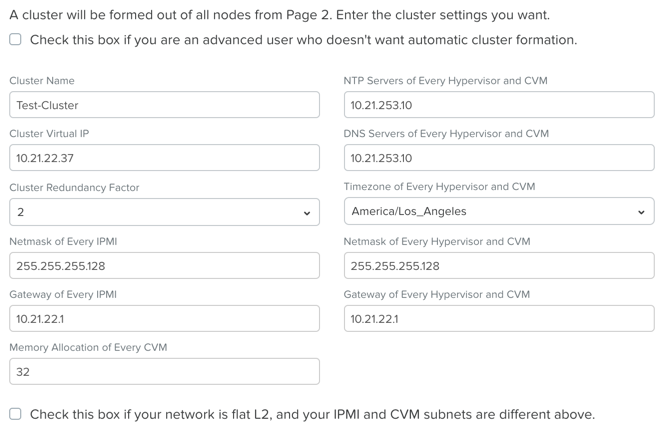
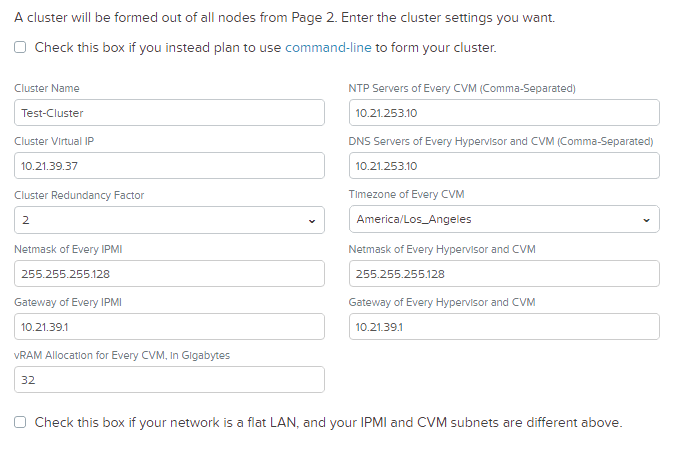
Updated to Foundation 4.2.1, removed XD access requirement

diff --git a/groupfoundation/foundation.rst b/groupfoundation/foundation.rst
@@ -169,28 +169,38 @@ Select **Save & Quit** and press **Return**.
 
 .. figure:: images/6.png
 
-.. raw:: html
-
-  <br><strong><font color="red">Close the Foundation VM console. You will use the browser in your Citrix XenDesktop session for the remainder of the lab.</font></strong>
-
 Running Foundation
 ++++++++++++++++++
 
-Open \http://*<Foundation VM IP>*:8000/gui/index.html in your browser to access Foundation.
+From within the Foundation VM console, launch **Nutanix Foundation** from the desktop.
 
 .. note::
 
-  **DO NOT** access the Foundation UI from the Foundation VM console. Close your Foundation VM console and access the Foundation UI via a browser in your Citrix desktop.
+  Foundation can be accessed via any browser at \http://*<Foundation VM IP>*:8000/gui/index.html
 
-On the **Start** page, click **Next**.
+On the **Start** page, make the following selections:
 
-.. note:: Foundation node/cluster settings can be pre-configured using https://install.nutanix.com and imported from the **Start** page.
+- **Select which network to use on this computer** - eth0
+- **Select your hardware platform** - Autodetect
+- **Is your switch doing link aggregation?** - No
+
+.. note::
+
+  Foundation node/cluster settings can optionally be pre-configured using https://install.nutanix.com and imported from the **Start** page. This will not be done as part of the lab.
+
+.. figure:: images/7.png
+
+Click **Next**.
 
 Click **Click here** to manually specify the MAC address of your assigned node.
 
 .. note::
 
-  Foundation will automatically discover any hosts in the same IPv6 Link Local broadcast domain that is not already part of a cluster. When transferring POC assets in the field, it's not uncommon to receive a cluster that wasn't properly destroyed at the conclusion of the previous POC. In this lab, the nodes are already part of existing clusters and will not be discovered.
+  Foundation will automatically discover any hosts in the same IPv6 Link Local broadcast domain that is not already part of a cluster.
+
+  .. figure:: images/7b.png
+
+  When transferring POC assets in the field, it's not uncommon to receive a cluster that wasn't properly destroyed at the conclusion of the previous POC. In this lab, the nodes are already part of existing clusters and will not be discovered.
 
 Fill out the following fields and click **Add Nodes**:
 
@@ -198,7 +208,7 @@ Fill out the following fields and click **Add Nodes**:
 - **Nodes per Block** - 3
 - Select **I will provide the IPMI MACs**
 
-.. figure:: images/7.png
+.. figure:: images/8.png
 
 Using the `Cluster Details`_ spreadsheet, fill out the following fields for **Nodes A, B, and C ONLY** and click **Next**:
 
@@ -213,11 +223,13 @@ Using the `Cluster Details`_ spreadsheet, fill out the following fields for **No
 
 .. note::
 
-  Use **Tools > Range Autofill** to quickly specify Node IPs.
+  Use **Tools > Range Autofill** to quickly specify Node IPs. Specify the first IP in the field at the top of the table to provide enumerated values for the entire column.
 
 .. note::
 
   In addition to the IPMI MAC address labels on the back of each node. Watchtower can be used to collect the IPMI MAC addresses of any NX appliance: *\http://watchtower.corp.nutanix.com/factoryData/<Block Serial>/*
+
+  Watchtower requires VPN connection.
 
 Using the `Cluster Details`_ spreadsheet, replace the octet(s) that correspond to your HPOC network, fill out the following fields and click **Next**:
 
@@ -231,7 +243,7 @@ Using the `Cluster Details`_ spreadsheet, replace the octet(s) that correspond t
 - **Cluster Virtual IP** - 10.21.\ *XYZ*\ .37
 
   *Cluster Virtual IP needs to be within the same subnet as the CVM/hypervisor.*
-- **Cluster Redundancy Factor** - 2
+- **Cluster Redundancy Factor** - RF2
 
   *Redundancy Factor 2 requires a minimum of 3 nodes, Redundancy Factor 3 requires a minimum of 5 nodes. Cluster creation during Foundation will fail if the appropriate minimum is not met.*
 - **Timezone of Every Hypervisor and CVM** - America/Los_Angeles
@@ -239,7 +251,7 @@ Using the `Cluster Details`_ spreadsheet, replace the octet(s) that correspond t
 - **Netmask of Every Hypervisor and CVM** - 255.255.255.128
 - **Gateway of Every IPMI** - 10.21.\ *XYZ*\ .1
 - **Gateway of Every Hypervisor and CVM** - 10.21.\ *XYZ*\ .1
-- **Memory Allocation of Every CVM** - 32
+- **vRAM Allocation for Every CVM, in Gigabytes** - 32
 
   *Refer to AOS Release Notes > Controller VM Memory Configurations for guidance on CVM Memory Allocation.*
 
@@ -260,6 +272,10 @@ By default, Foundation does not have any AOS or hypervisor images. To upload AOS
 Click **+ Add > Choose File**. Select your downloaded *nutanix_installer_package-release-\*.tar.gz* file and click **Upload**.
 
 .. figure:: images/15.png
+
+.. note::
+
+  If downloading the AOS package within the Foundation VM, the .tar.gz package can also be moved to ~/foundation/nos rather than uploaded to Foundation through the web UI. After moving the package into the proper directory, click **Manage AOS Files > Refresh**.
 
 After the upload completes, click **Close**. Click **Next**.
 
@@ -301,7 +317,9 @@ When all CVMs are ready, Foundation initiates the cluster creation process.
 
 .. figure:: images/20.png
 
-Open \https://*<Cluster Virtual IP>*:9440 in your browser and log in with the following credentials:
+**Close the Foundation VM Console.**
+
+Open \https://*<Cluster Virtual IP>*:9440 in your local browser and log in with the following credentials:
 
 - **Username** - admin
 - **Password** - Nutanix/4u

diff --git a/diyfoundation/diyfoundation.rst b/diyfoundation/diyfoundation.rst
@@ -116,11 +116,11 @@ Fill out the following fields and click **Save**:
 - **Image Type** - Disk
 - **Storage Container** - default-container
 - Select **From URL**
-- **Image Source** - http://download.nutanix.com/foundation/foundation-4.0.3/Foundation_VM-4.0.3-disk-0.qcow2
+- **Image Source** - http://download.nutanix.com/foundation/foundation-4.2.1/Foundation_VM-4.2.1-disk-0.qcow2
 
 .. note::
 
-  At the time of writing, Foundation 4.1.1 is the latest available version. The URL for the latest Foundation VM QCOW2 image can be downloaded from the `Nutanix Portal <https://portal.nutanix.com/#/page/foundation>`_.
+  At the time of writing, Foundation 4.2.1 is the latest available version. The URL for the latest Foundation VM QCOW2 image can be downloaded from the `Nutanix Portal <https://portal.nutanix.com/#/page/foundation>`_.
 
   **Unless otherwise directed by support, always use the latest version of Foundation.**
 
@@ -194,28 +194,38 @@ Select **Save & Quit** and press **Return**.
 
 .. figure:: images/6.png
 
-Close the Foundation VM console.
-
 Running Foundation
 ++++++++++++++++++
 
-Open \https://*<Foundation VM IP>*:8000/gui/index.html in your browser to access Foundation.
+From within the Foundation VM console, launch **Nutanix Foundation** from the desktop.
 
 .. note::
 
-  **DO NOT** access the Foundation UI from the Foundation VM console. Close your Foundation VM console and access the Foundation UI via a browser in your Citrix desktop.
+  Foundation can be accessed via any browser at \http://*<Foundation VM IP>*:8000/gui/index.html
 
-On the **Start** page, click **Next**.
+On the **Start** page, make the following selections:
 
-  .. note:: Foundation node/cluster settings can be pre-configured using https://install.nutanix.com and imported from the **Start** page.
-
-Foundation will automatically discover any hosts in the same IPv6 Link Local broadcast domain that is not already part of a cluster.
-
-.. figure:: images/8.png
+- **Select which network to use on this computer** - eth0
+- **Select your hardware platform** - Autodetect
+- **Is your switch doing link aggregation?** - No
 
 .. note::
 
-  When transferring POC assets in the field, it's not uncommon to receive a cluster that wasn't properly destroyed at the conclusion of the previous POC. In this lab, the nodes should be automatically discovered. See :ref:`foundation_lab` for steps on manually adding nodes based on IPMI MAC addresses.
+  Foundation node/cluster settings can optionally be pre-configured using https://install.nutanix.com and imported from the **Start** page. This will not be done as part of the lab.
+
+.. figure:: images/7.png
+
+Click **Next**.
+
+Click **Click here** to manually specify the MAC address of your assigned node.
+
+.. note::
+
+  Foundation will automatically discover any hosts in the same IPv6 Link Local broadcast domain that is not already part of a cluster.
+
+  .. figure:: images/8.png
+
+  When transferring POC assets in the field, it's not uncommon to receive a cluster that wasn't properly destroyed at the conclusion of the previous POC. In this lab, the nodes are already part of existing clusters and will not be discovered.
 
 Replacing the octet(s) that correspond to your HPOC network, fill out the following fields and select **Next**:
 
@@ -248,7 +258,7 @@ Fill out the following fields and click **Next**:
 - **Netmask of Every Hypervisor and CVM** - 255.255.255.128
 - **Gateway of Every IPMI** - 10.21.\ *XYZ*\ .1
 - **Gateway of Every Hypervisor and CVM** - 10.21.\ *XYZ*\ .1
-- **Memory Allocation of Every CVM** - 32
+- **vRAM Allocation for Every CVM, in Gigabytes** - 32
 
   *Refer to AOS Release Notes > Controller VM Memory Configurations for guidance on CVM Memory Allocation.*
 
@@ -265,6 +275,10 @@ Download your desired AOS package from the `Nutanix Portal <https://portal.nutan
 By default, Foundation does not have any AOS or hypervisor images. To upload AOS or hypervisor files, click **Manage AOS Files**.
 
 .. figure:: images/14.png
+
+.. note::
+
+  If downloading the AOS package within the Foundation VM, the .tar.gz package can also be moved to ~/foundation/nos rather than uploaded to Foundation through the web UI. After moving the package into the proper directory, click **Manage AOS Files > Refresh**.
 
 Click **+ Add > Choose File**. Select your downloaded *nutanix_installer_package-release-\*.tar.gz* file and click **Upload**.
 

diff --git a/index.rst b/index.rst
@@ -30,8 +30,28 @@ Getting Started
 
 Welcome to Nutanix New Hire Training! Carefully review the **Overview** section of each lab before proceeding with the exercise.
 
-HPOC XenDesktop Access
-++++++++++++++++++++++
+Cluster Access
+++++++++++++++
+
+The Nutanix Hosted POC environment can only be accessed via VPN or virtual desktop. **It is recommended that the VPN be used to complete these labs.**
+
+GlobalProtect VPN Access
+........................
+
+Browse to https://gp.nutanix.com.
+
+Log in with your OKTA credentials.
+
+Download and install the appropriate GlobalProtect agent for your operating system.
+
+Launch GlobalProtect and configure **gp.nutanix.com** as the **Portal** address.
+
+.. note::
+
+  You can also leverage the legacy VPN solution, Pulse Secure. Connect and download the client from https://sslvpn.nutanix.com.
+
+XenDesktop Access
+.................
 
 .. raw:: html
 
@@ -62,5 +82,3 @@ Once logged in to https://citrixready.nutanix.com, select **Desktops** from the 
 If the Citrix client isn't immediately launched, your browser may have downloaded a **.ica** file without opening it. Open the **.ica** file to launch the Citrix client.
 
 If you receive a certificate error attempting to connect to your Citrix desktop, download and install the `DigiCert SHA2 Secure Server CA <https://dl.cacerts.digicert.com/DigiCertSHA2SecureServerCA.crt>`_ certificate. Restart your browser and attempt to launch your Citrix desktop again.
-
-**You can now proceed with the** :ref:`groupfoundation_lab` **lab.**
